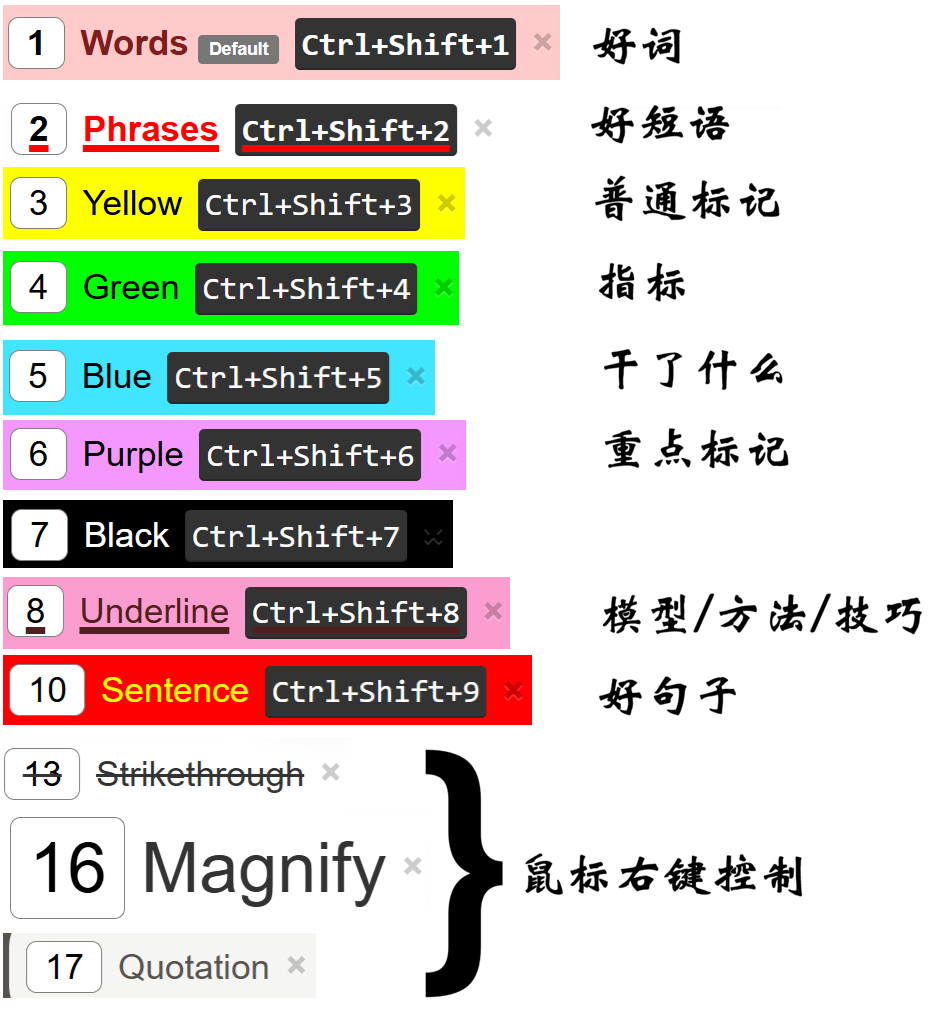
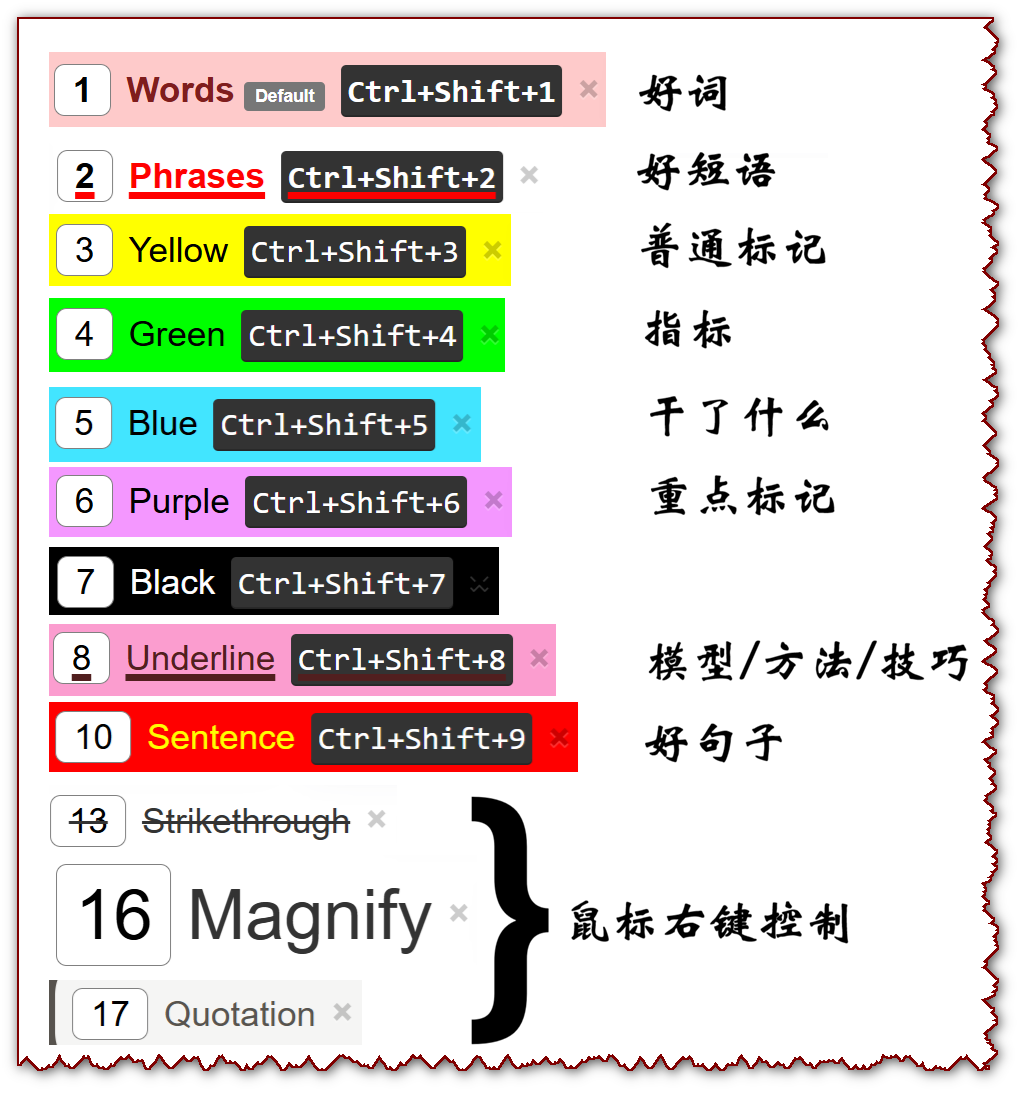
refine some details

diff --git a/index.html b/index.html
@@ -396,6 +396,12 @@
 		
 		</p>
 		
+		<p>
+		
+		<a href="./tech_Share/#.html">如何给你的Github Pages加上评论功能（如本页底部评论区）（待分享）</a><br/><span style='color:#990000; font-family:微软雅黑; font-size: 13px; font-style:normal; '>让大家一起互动起来！</span>
+		
+		</p>
+		
 		
 		<!--空白框（占位符）-->
 		<div style="height: 50px"></div>
@@ -488,6 +494,20 @@
 
 		</p>
 		
+			
+		<p>
+
+		<span style="background:white; border: 1px solid #af2f53; color: #d64463; font-family: Arial Rounded MT; border-radius: 5px; font-weight:bold; font-size: 14px">&nbsp;分享&nbsp;</span> <span style='color:red'>那些能让我们专注于当下的事：</span>
+
+		<ul>
+
+			<li>运动：尤其是跑步的后期、新手游泳的时候；</li>
+			<li>写写画画：例如，画一幅画、练练字；</li>
+			<li>...</li>
+
+		</ul>
+
+		</p>
 				
 		<p>
 
@@ -526,7 +546,7 @@
 
 					<details>
 						<summary>点击「打开 | 折叠」</summary>
-						<img class="intext_img" src="images/HighlighterGuide_V1.0.png" title="笔记：颜色⇄含义" alt="描述文字">
+						<img class="intext_img" style="width: 100%; max-width: 500px; height: auto;" src="images/HighlighterGuide_V1.0.png" title="笔记：颜色⇄含义" alt="描述文字">
 					</details>
 
 			</div>
@@ -541,7 +561,7 @@
 
 					<details>
 						<summary>点击「打开 | 折叠」</summary>
-						<img class="intext_img" style="max-width: 60%;" src="images/css_font_tailored_v1.0.png" title="笔记：CSS⇄效果" alt="描述文字">
+						<img class="intext_img" style="width: 100%; max-width: 800px; height: auto;" src="images/css_font_tailored_v1.0.png" title="笔记：CSS⇄效果" alt="描述文字">
 					</details>
 
 			</div>
@@ -568,7 +588,6 @@
 		<!--我的原则（心智模型）-->
 		<h2 style="margin-bottom: 0px;"><span style="color:black; font-family:Whitney;">我的<span style='font-family:Whitney'>Mental Model</span></span></h2>
 		<div class="sub-line" style='background-color:black; width:40%'></div>
-		<br/>
 		<span style='color:#99000066; font-family:Consolas; font-size: 13px; font-style:normal; '>A mental model is a simplified conceptual framework, belief, or psychological representation of how the world (or a specific system) works.<br/>It acts as an internal map that compresses complexity, allowing you to interpret situations, make decisions, predict outcomes, and solve problems.</span>
 		
 		<br/>
@@ -653,14 +672,14 @@
 		</a>
 		<div class="footer">
 			<center>
-				<span style="color:white; font-family:华文楷体; ">千金易得，知己难寻：交个朋友吧！（<span style='color:white'>和优秀的人一起，做难而正确的事！</span>）</span>
+				<span style="color:white;">千金易得，知己难寻：交个朋友吧！<span class="icon fa-wechat" style='color:#04BE02; font-style: normal; font-family: Consolas'>&nbsp;t_ideal</span></span>
 			</center>
 		</div>
 		
 		<div class="sponsor">
-				<p style="text-align: center; color: white; font-family:Consolas">
+				<p style="text-align: center; color: white; font-family:Whitney">
 				
-					© 2026 TAO <span class="icon fa-wechat" style='color:#04BE02; font-style: normal'>&nbsp;t_ideal</span>
+					© 2026 TAO <font style='color: #63065f;'>|</font> <span style='color:white; font-family:华文楷体;'>和优秀的人一起，做难而正确（有挑战）的事！</span>
 					
 				
 				</p>
